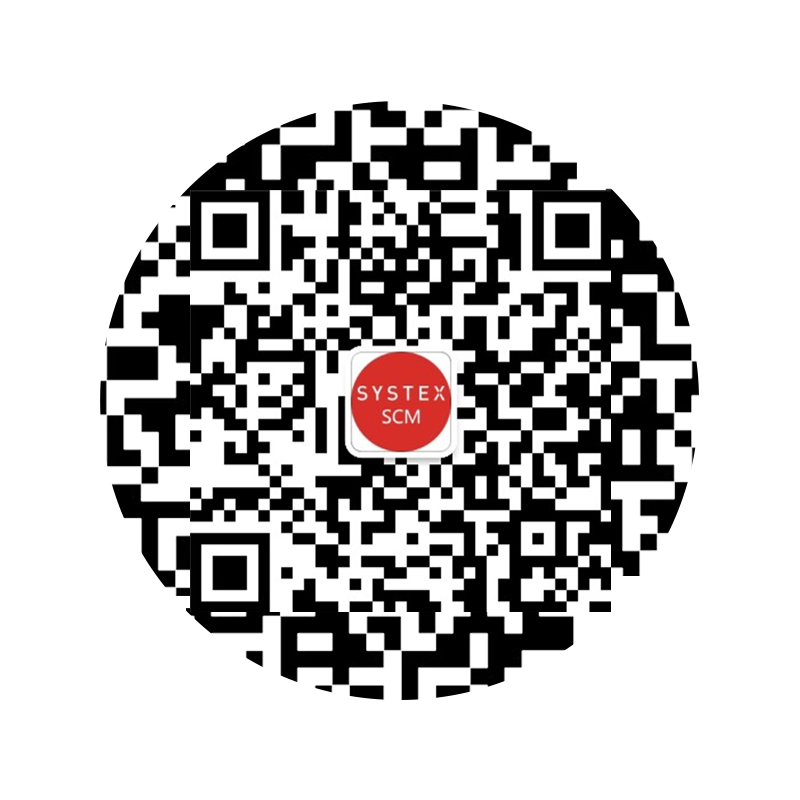
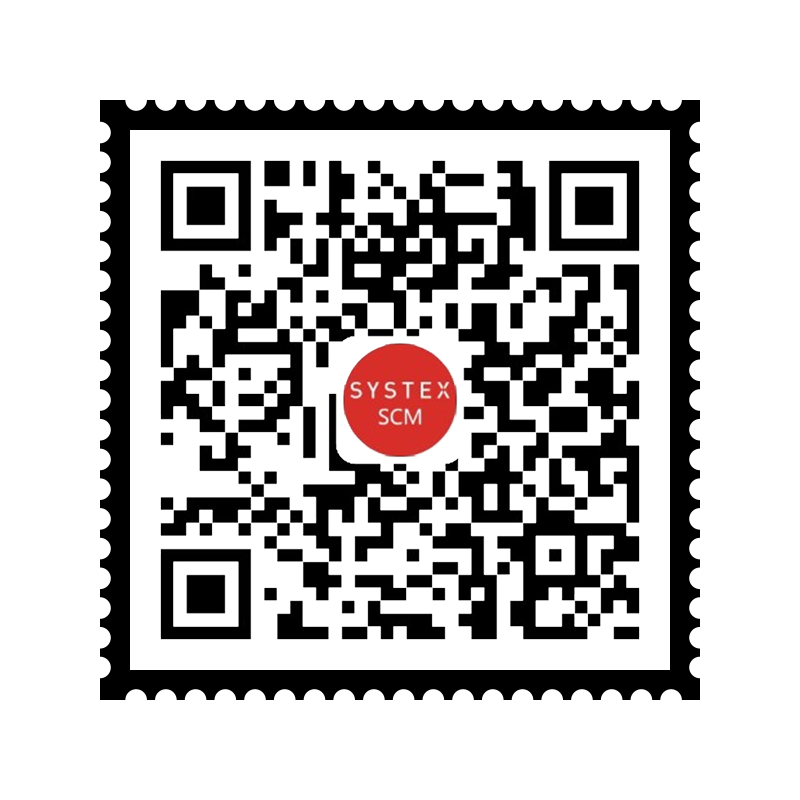
图片替换

diff --git a/src/pages/QrCode/index.js b/src/pages/QrCode/index.js
@@ -1,6 +1,7 @@
 import React, { Component } from 'react';
 import { NavBar, Icon } from 'antd-mobile';
-import code from './images/qrcode.png'
+import code from './images/qrcode.png';
+import banner from './images/banner.png';
 
 export default class QrcodePage extends Component {
   constructor(props) {
@@ -29,11 +30,17 @@ export default class QrcodePage extends Component {
           </NavBar>
         </div>
         <div style={{ marginTop: 40, marginBottom: 40 }}>
+          {/* <img
+            src={banner}
+            alt=''
+            style={{ objectFit: 'cover', height: 100, }}
+          /> */}
           <img
             src={code}
             alt=''
             style={{ width: '100%' }}
           />
+
         </div>
         <div>
           <div style={{ textAlign: 'center', fontSize: 16 }}>
